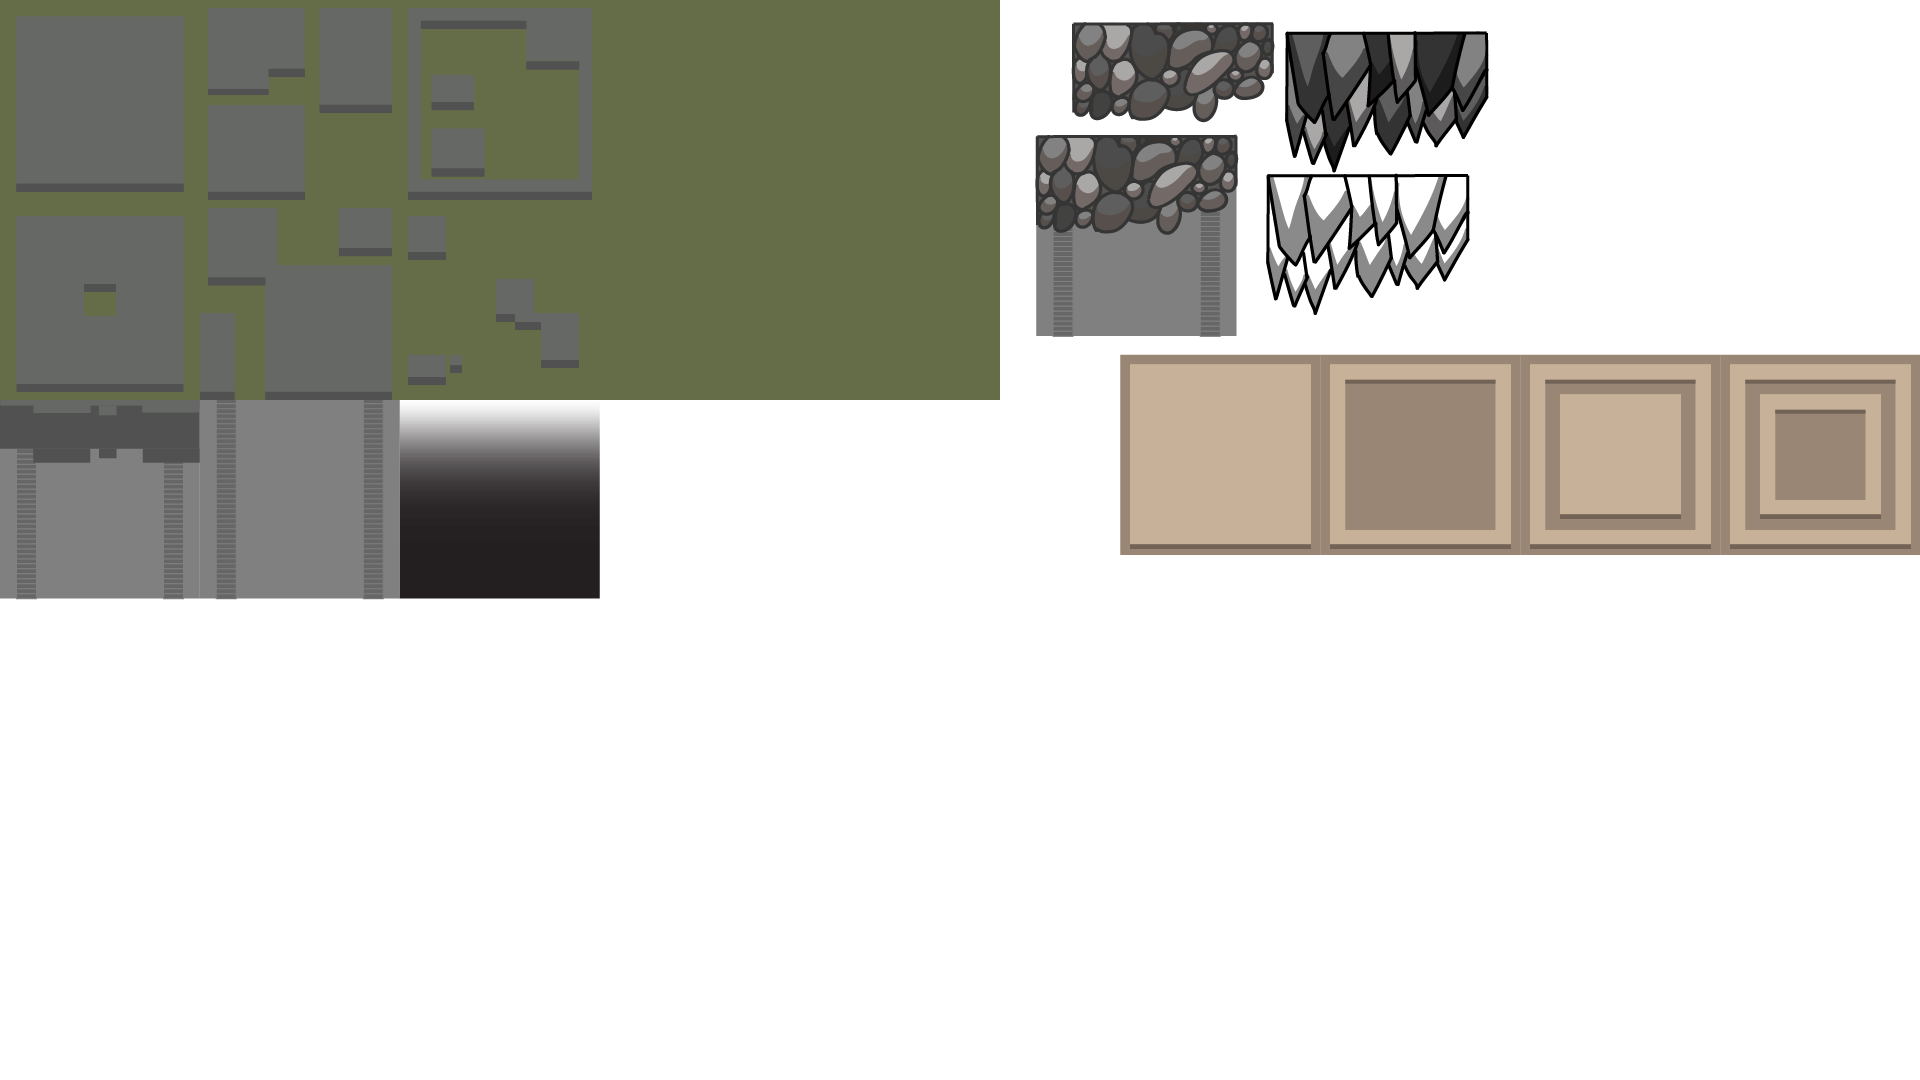
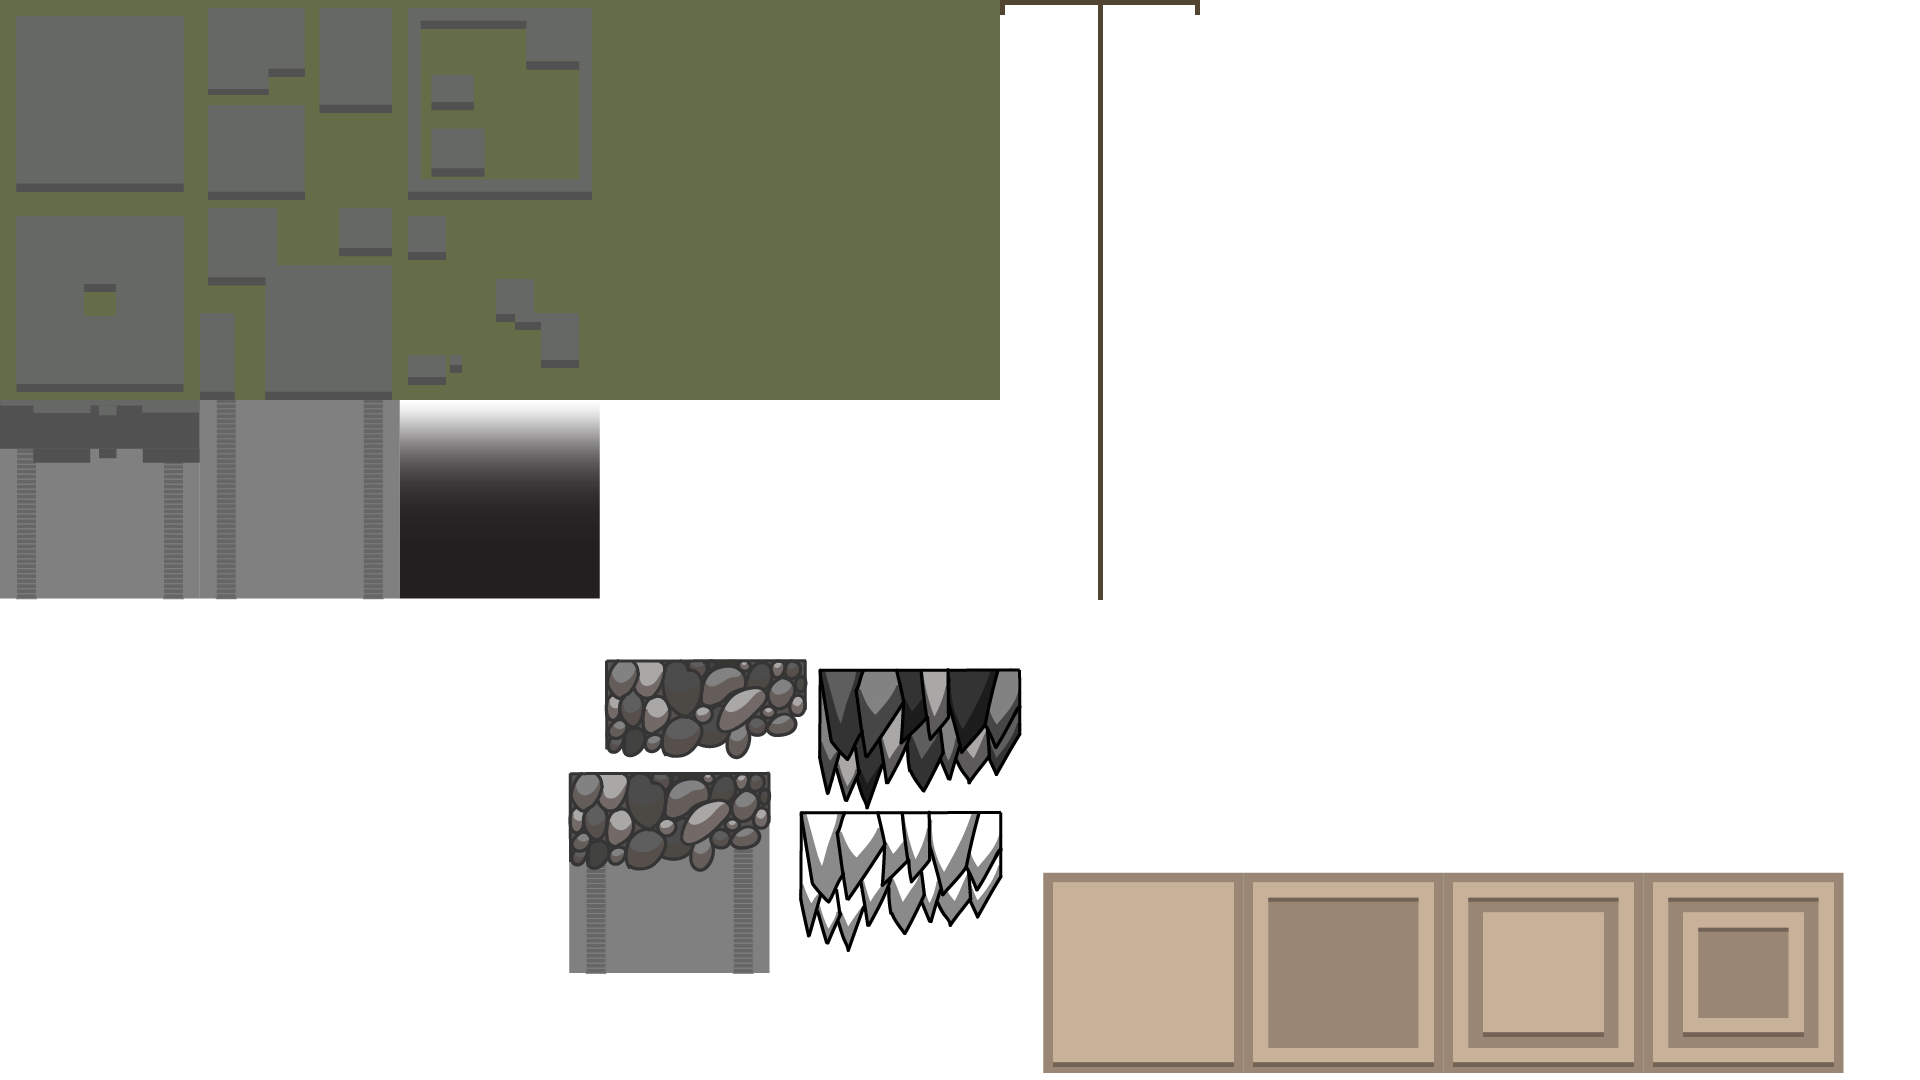
Add files via upload

Changed region(s): [[0.5312, 0.0, 1.0, 0.5194], [0.2812, 0.6111, 0.9688, 1.0]]

diff --git a/StringJoint.cpp b/StringJoint.cpp
@@ -1,0 +1,51 @@
+#include "String.h"
+#include "StringJoint.h"
+#include <allegro5/allegro5.h>
+#include <allegro5/allegro_primitives.h>
+
+StringJoint::StringJoint() {}
+
+void StringJoint::Init(int JointID, double JointXPos, double JointYPos, double Vel, int StringJointSpacing, int StringJointNum, int StringJointW, int StringJointH)
+{
+	StringJoint::JointXPos = JointXPos;
+	StringJoint::JointYPos = JointYPos;
+	JointXDir = 0;
+	JointYDir = 0;
+	StringJoint::Vel = Vel;
+	StringJoint::JointID = JointID;
+
+	StringJoint::StringJointSpacing = StringJointSpacing;
+	StringJoint::StringJointNum = StringJointNum;
+	StringJoint::StringJointW = StringJointW;
+	StringJoint::StringJointH = StringJointH;
+
+	WindCounter = 0;//makes line
+	//WindCounter = JointID;//makes spiral cone
+
+	WindSpeed = .03;
+	WindSway = 1;
+}
+
+void StringJoint::Update(double x, double y, double dirX, double dirY, double SwayChange, double SpeedChange, double cameraXPos, double cameraYPos)
+{
+
+	if (dirX == 0 && dirY == 0) {//setting up 'resting position' of String when player/object is in idle state
+		dirX = 0;
+		dirY = -1;
+	}
+	WindSway += SwayChange/100;
+	WindSpeed += SpeedChange/100;
+
+	//WindSway = sin(WindCounter + WindSpeed);//makes spirals
+	
+	JointXDir = (((JointXPos + JointXDir) - (x)+(JointID*StringJointSpacing)*dirX) / Vel) + WindSway*sin(WindCounter += WindSpeed);//Vel of String is dependent on distance from object
+	JointYDir = ((JointYPos + JointYDir) - ((y)+(JointID*StringJointSpacing)*-dirY)) / Vel;
+
+	JointXPos -= JointXDir;
+	JointYPos -= JointYDir;
+
+	
+	al_draw_filled_rectangle(JointXPos + cameraXPos, JointYPos + cameraYPos, (JointXPos + cameraXPos) + StringJointW, (JointYPos + cameraYPos )+StringJointH, al_map_rgb((175 -JointID), 23, 23));
+	//al_draw_filled_rectangle(JointXPos + cameraXPos, JointYPos + cameraYPos, (JointXPos + cameraXPos) + StringJointW*WindSway*sin(WindCounter + WindSpeed), (JointYPos + cameraYPos) + StringJointH*WindSway*sin(WindCounter + WindSpeed), al_map_rgb((JointID * 3 - 175), 23, 23));//varies color+size
+
+}

diff --git a/Player.cpp b/Player.cpp
@@ -1,5 +1,5 @@
 #include "Player.h"
-#include "Scarf.h"
+#include "String.h"
 #define PI 3.14159265
 #define DEGREES(x) int((x)/360.0*0xFFFFFF)
 #define RADIANS(x) int((x)/2/M_PI*0xFFFFFF)
@@ -8,7 +8,7 @@ Player::Player() {}
 
 void Player::Init(double x, double y, double z, int imageX, int imageY, double imageboundX, double imageboundY, ALLEGRO_BITMAP *PlayerImage)
 {
-	
+
 	Object::Init(x, y, z, imageboundX / 2.5, imageboundY / 2.5, imageX, imageY, imageboundX, imageboundY, x, y, imageboundX / 2.5, imageboundY / 2.5);
 	Object::imageboundX = 193;
 	Object::imageboundY = 361;
@@ -18,29 +18,28 @@ void Player::Init(double x, double y, double z, int imageX, int imageY, double i
 	velX = 6;
 	velY = 6;
 
-	scarf->Init(x, y, 174, 1);//creating the scarf
+	string->Init(x, y, 50, 1, 15, 15);//creating the scarf
 }
 
 void Player::Update()
 {
-	//scarf->Update(x, y+z);
 	Object::Update();
 }
 
 void Player::Render(double cameraXPos, double cameraYPos)
 {
-	scarf->Update(x + cameraXPos, y + z + cameraYPos, dirX, dirY);
+	string->Update(x, y + z, dirX, dirY, cameraXPos, cameraYPos);
 	Object::Render(cameraXPos, cameraYPos);
 }
 
 void Player::PlayerKeyboard(bool UP, bool DOWN, bool LEFT, bool RIGHT, bool SHIFT)
 {
 	/*if (MouseAngleRadians > 3 * PI / 2 ||//determine direction player is facing based on mouse angle
-		MouseAngleRadians < PI / 2) {
-		FlipHorizontal = false;
+	MouseAngleRadians < PI / 2) {
+	FlipHorizontal = false;
 	}
 	else {
-		FlipHorizontal = true;
+	FlipHorizontal = true;
 	}*/
 
 	if (UP) {//player movement

diff --git a/Room.cpp b/Room.cpp
@@ -2,10 +2,11 @@
 #include "Room.h"
 #include "Player.h"
 #include "Tile.h"
+#include "Banner.h"
 #include <math.h>
 #include <iostream>
 #include <algorithm>
-#include "Scarf.h"
+#include "String.h"
 
 using namespace std;
 
@@ -26,10 +27,6 @@ void Room::Init(char ID, int x, int y, int z, Player *player, ALLEGRO_BITMAP *Te
 
 	AllObjects.push_back(player);
 	ObjectCollisionList.push_back(player);
-	
-
-	scarf->Init(player->GetX(), player->GetY(), 5, 20);
-	//AllObjects.push_back(scarf);
 
 	LevelMatrix[LEVELW][LEVELH] = {};
 	DepthMatrix[LEVELW][LEVELH] = {};
@@ -78,6 +75,18 @@ void Room::Init(char ID, int x, int y, int z, Player *player, ALLEGRO_BITMAP *Te
 		}
 	}
 
+	for (int x = 1; x <= LEVELW - 1; x++) {
+		for (int y = 1; y <= LEVELH - 1; y++) {
+			if (LevelMatrix[x][y] == 0) 
+			{
+				Banner *banner = new Banner();
+				banner->Init(TerrainImage, x*TILEH, (y*TILEW) - 200, 0, 1000, 0, 200, 600);
+				AllObjects.push_back(banner);
+				ObjectCollisionList.push_back(banner);
+			}
+		}
+	}
+
 	/*for (int x = 0; x <= LEVELW; x++) {
 		for (int y = 0; y <= LEVELH; y++) {
 			LevelMatrix[x][LEVELH] = 0;
@@ -96,7 +105,7 @@ void Room::ObjectUpdate()
 {
 	if (!paused) {
 
-		counter2++;
+		/*counter2++;
 		if (counter2 == 20)
 		{
 			counter2 = 0;
@@ -110,7 +119,7 @@ void Room::ObjectUpdate()
 		}
 		if (counter >= LEVELW)
 			counter = 0;
-		
+		*/
 		for (titer = TileList.begin(); titer != TileList.end(); ++titer)//tracks depth of all tiles
 		{
 			int tempx = (*titer)->GetX() / TILEW;

diff --git a/String.cpp b/String.cpp
@@ -1,0 +1,48 @@
+#include "String.h"
+#include "StringJoint.h"
+
+String::String() {}
+
+void String::Init(double x, double y, int StringJointNum, int StringJointSpacing, int StringJointW, int StringJointH)
+{
+	//String::StringJointNum = StringJointNum;
+	//String::StringJointSpacing = StringJointSpacing;
+	//String::StringJointW = StringJointW;
+	//String::StringJointH = StringJointH;
+
+	for (int a = 2; a <= StringJointNum; a++) {
+		StringJoint *joint = new StringJoint();
+		joint->Init(a, x, y, (a), StringJointSpacing, StringJointNum, StringJointW, StringJointH);//velocity is exponential, dependent on joint number
+		JointList.push_back(joint);
+	}
+}
+
+void String::Update(double x, double y, double dirX, double dirY, double cameraXPos, double cameraYPos)
+{
+	double SpeedChange = 0;
+	double SwayChange = 0;
+
+	/*if (rand() % 60 == 1) {
+		SpeedChange = rand() % 2 + 1;
+		if (rand() % 2 == 1)
+			SpeedChange *= -1;
+		SwayChange = (rand() % 5 + 1) / 1;
+		if (rand() % 2 == 1)
+			SwayChange *= -1;
+	}*/
+	for (jiter = JointList.begin(); jiter != JointList.end(); ++jiter)
+	{
+		(*jiter)->Update(x, y, dirX, dirY, SwayChange, SpeedChange, cameraXPos, cameraYPos);
+	}
+	//cout << x << ", " << y << " : " << dirX << ", " << dirY << endl;
+}
+
+double String::GetLowestPoint() {
+	int LowestPoint = 0;
+	for (jiter = JointList.begin(); jiter != JointList.end(); ++jiter)
+	{
+		if ((*jiter)->GetJointYPos() > LowestPoint)
+			LowestPoint = (*jiter)->GetJointYPos();
+	}
+	return LowestPoint;
+}

diff --git a/StringJoint.h b/StringJoint.h
@@ -1,0 +1,41 @@
+#pragma once
+
+#include <iostream>
+#include <allegro5/allegro5.h>
+#include <allegro5/allegro_primitives.h>
+#include "Globals.h"
+#include "Object.h"
+#include "String.h"
+#include <vector>
+using namespace std;
+
+class StringJoint : public Object
+{
+private:
+	double JointXDir;
+	double JointYDir;
+
+	double JointXPos;
+	double JointYPos;
+
+	double Vel;//speed at which String "rubber bands"
+
+	int JointID;//tracks what number the joint is on the String
+
+	int StringJointSpacing;
+	int StringJointNum;
+	int StringJointW;
+	int StringJointH;
+
+	double WindCounter;//number used in sin() equation
+	double WindSway;//degree to which String sways
+	double WindSpeed;//speed at which String sways
+
+public:
+	StringJoint();
+	void Init(int JointID, double JointXPos, double JointYPos, double Vel, int StringJointSpacing, int StringJointNum, int StringJointW, int StringJointH);
+	void Update(double x, double y, double dirX, double dirY, double SwayChange, double SpeedChange, double cameraXPos, double cameraYPos);
+
+	double GetJointXPos() { return JointXPos; }
+	double GetJointYPos() { return JointYPos; }
+};

diff --git a/Banner.cpp b/Banner.cpp
@@ -1,0 +1,25 @@
+#include "Banner.h"
+#include "String.h"
+Banner::Banner() {}
+
+void Banner::Init(ALLEGRO_BITMAP *BannerImage, double x, double y, double z, int imageX, int imageY, double imageboundX, double imageboundY)
+{
+	Object::Init(x, y, z, TILEW, TILEH*3, imageX, imageY, imageboundX, imageboundY, x + (boundX/2)-5/2, y + boundY, 5, 5);
+	SetAnimating(false);
+	Object::image = BannerImage;
+
+	string->Init(x, y, 20, 10, 100, 20);//creating the Banner within the holder
+}
+
+void Banner::Render(double cameraXPos, double cameraYPos)
+{
+	
+	Object::Render(cameraXPos, cameraYPos);
+	//string->Update(x + cameraXPos - boundX / 2, y + z + cameraYPos - boundY/2, 0, 0);
+	string->Update(x - 25, y + z - 90, 0, 0, cameraXPos, cameraYPos);
+}
+
+void Banner::Update()
+{
+	Object::Update();
+}

diff --git a/String.h b/String.h
@@ -1,0 +1,28 @@
+#pragma once
+
+#include <iostream>
+#include <allegro5/allegro5.h>
+#include <allegro5/allegro_primitives.h>
+#include "Globals.h"
+#include "Object.h"
+#include "StringJoint.h"
+#include <vector>
+using namespace std;
+
+class String : public Object
+{
+private:
+	//int StringJointNum;
+	//int StringJointSpacing;
+	//int StringJointW;
+	//int StringJointH;
+
+	vector<StringJoint *> JointList;//holds joints
+	vector<StringJoint *>::iterator jiter;
+
+public:
+	String();
+	void Init(double x, double y, int StringJointNum, int StringJointSpacing, int StringJointW, int StringJointH);
+	void Update(double x, double y, double dirX, double dirY, double cameraXPos, double cameraYPos);
+	double GetLowestPoint();
+};

diff --git a/Room.h b/Room.h
@@ -5,6 +5,7 @@
 #include "Object.h"
 #include "Player.h"
 #include "Tile.h"
+#include "String.h"
 #include <allegro5/allegro.h>
 #include <allegro5/allegro_image.h>
 #include <vector>
@@ -29,8 +30,8 @@ private:
 	vector<Tile*> TileList;//list that keeps track of all tiles in room. Used for changes in height, receding/rising all tiles, etc.
 	vector<Tile*>::iterator titer;
 
-	Scarf *scarf = new Scarf();
 	//Player *player = new Player();
+	//Camera *camera = new Camera();
 
 	int LevelMatrix[LEVELW][LEVELH];//tracks type of tiles in map.
 	int DepthMatrix[LEVELW][LEVELH];//tracks depth of tiles in map.

diff --git a/Player.h b/Player.h
@@ -5,7 +5,7 @@
 #include <allegro5/allegro_primitives.h>
 #include "Globals.h"
 #include "Object.h"
-#include "Scarf.h"
+#include "String.h"
 #include <vector>
 using namespace std;
 
@@ -22,7 +22,7 @@ private:
 	int Action;//tracks which action is being performed by the main character
 	double MouseAngleRadians;//angle of mouse in radians. Used to track which direction the player faces (check flags)
 
-	Scarf *scarf = new Scarf();
+	String *string = new String();
 
 public:
 	Player();

diff --git a/Banner.h b/Banner.h
@@ -1,0 +1,19 @@
+#pragma once
+
+#include <iostream>
+#include "Globals.h"
+#include "Object.h"
+#include "String.h"
+#include <vector>
+using namespace std;
+
+class Banner : public Object
+{
+private:
+	String *string = new String();
+public:
+	Banner();
+	void Init(ALLEGRO_BITMAP *BannerImage, double x, double y, double z, int imageX, int imageY, double imageboundX, double imageboundY);
+	void Render(double cameraXPos, double cameraYPos);
+	void Update();
+};
